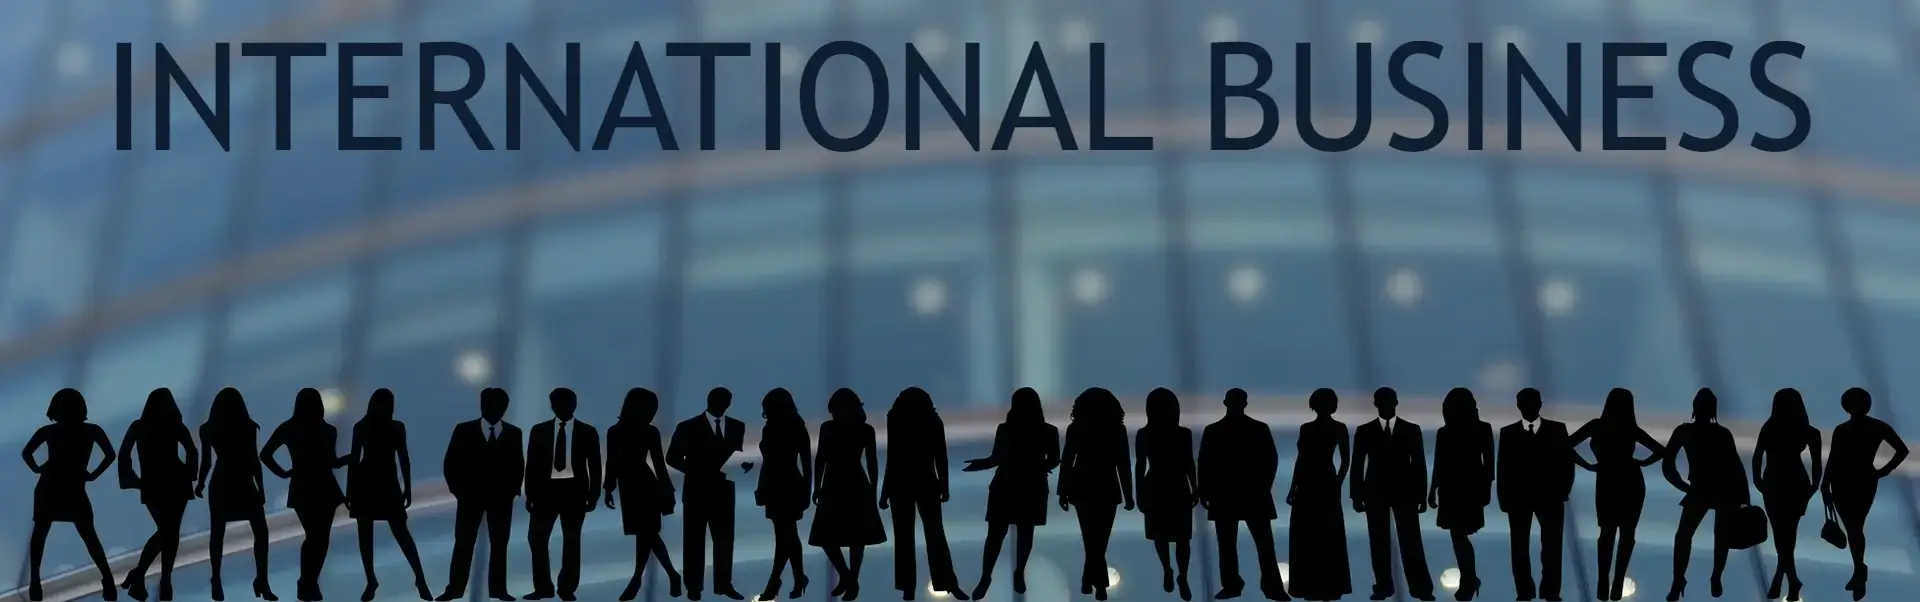
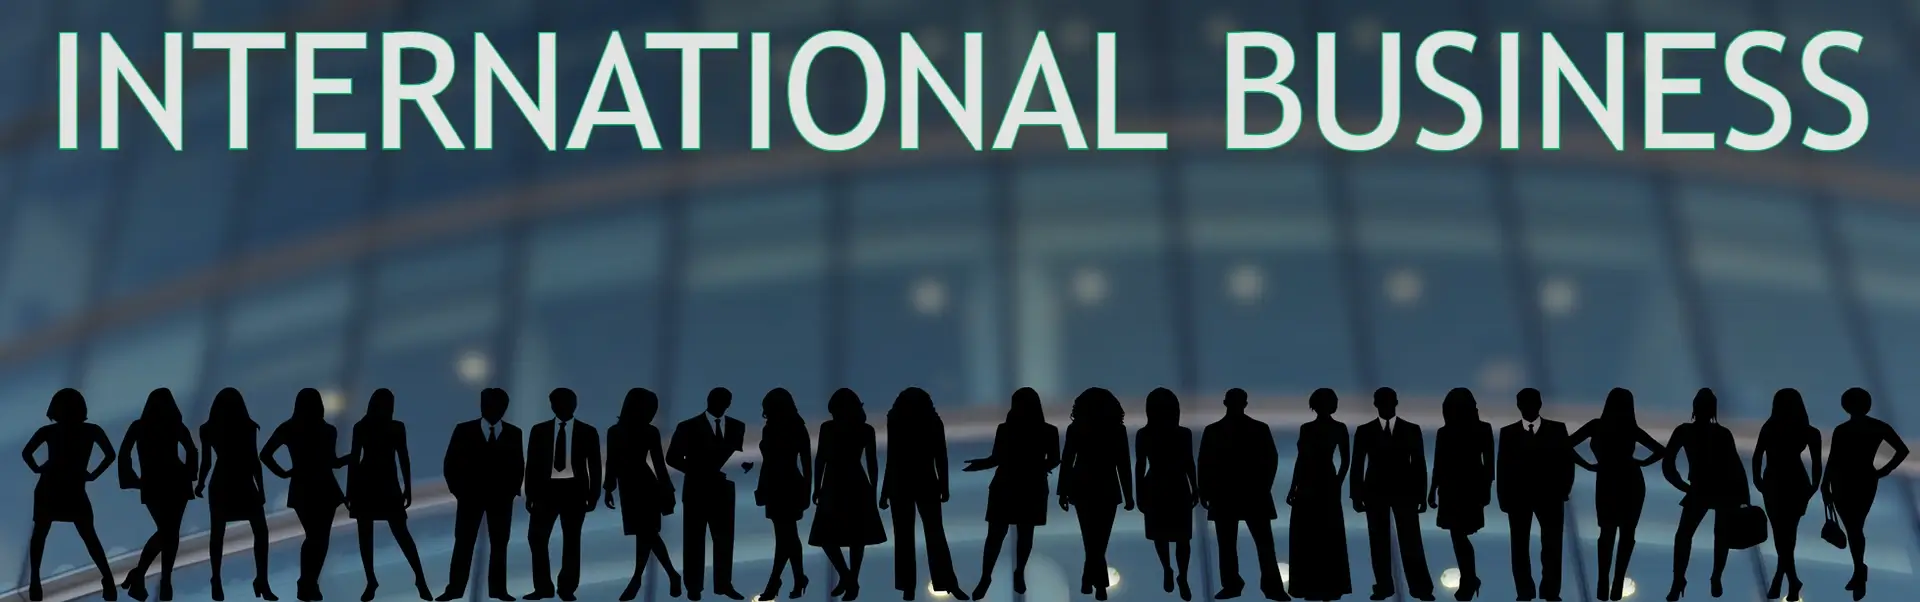
styles

diff --git a/components/Banner/Banner.module.css b/components/Banner/Banner.module.css
@@ -13,6 +13,10 @@
   display: flex;
 }
 
+.bannerImg2Container {
+  display: none;
+}
+
 .homeTitle {
   display: none;
 }
@@ -26,6 +30,7 @@
   top: 20%;
   left: 2%;
   right: 2%;
+  color: white;
 }
 
 .homeTitleDescript {
@@ -105,13 +110,16 @@
     display: block;
     text-align: center;
     font-size: 24px;
-    margin: 0;
+    margin: 0px 0px 10px 0px;
   }
   .homeTitleImgDescript {
     display: none;
   }
   .bannerImgContainer {
     display: none;
+  }
+  .bannerImg2Container {
+    display: flex;
   }
 }
 @media (max-width: 400px) {

diff --git a/components/Banner/Banner.js b/components/Banner/Banner.js
@@ -19,6 +19,16 @@ function Banner() {
       <h1 className={styles.homeTitle}>INTERNATIONAL BUSINESS</h1>
       <h2 className={styles.homeTitleImgDescript}>{t("common:description")}</h2>
       <h2 className={styles.homeTitleDescript}>{t("common:description")}</h2>
+      <div className={styles.bannerImg2Container}>
+        <Image
+          src="/banner2.webp"
+          alt=""
+          priority
+          width="1920"
+          height="256"
+          className={styles.bannerImg2}
+        />
+      </div>
     </header>
   );
 }
